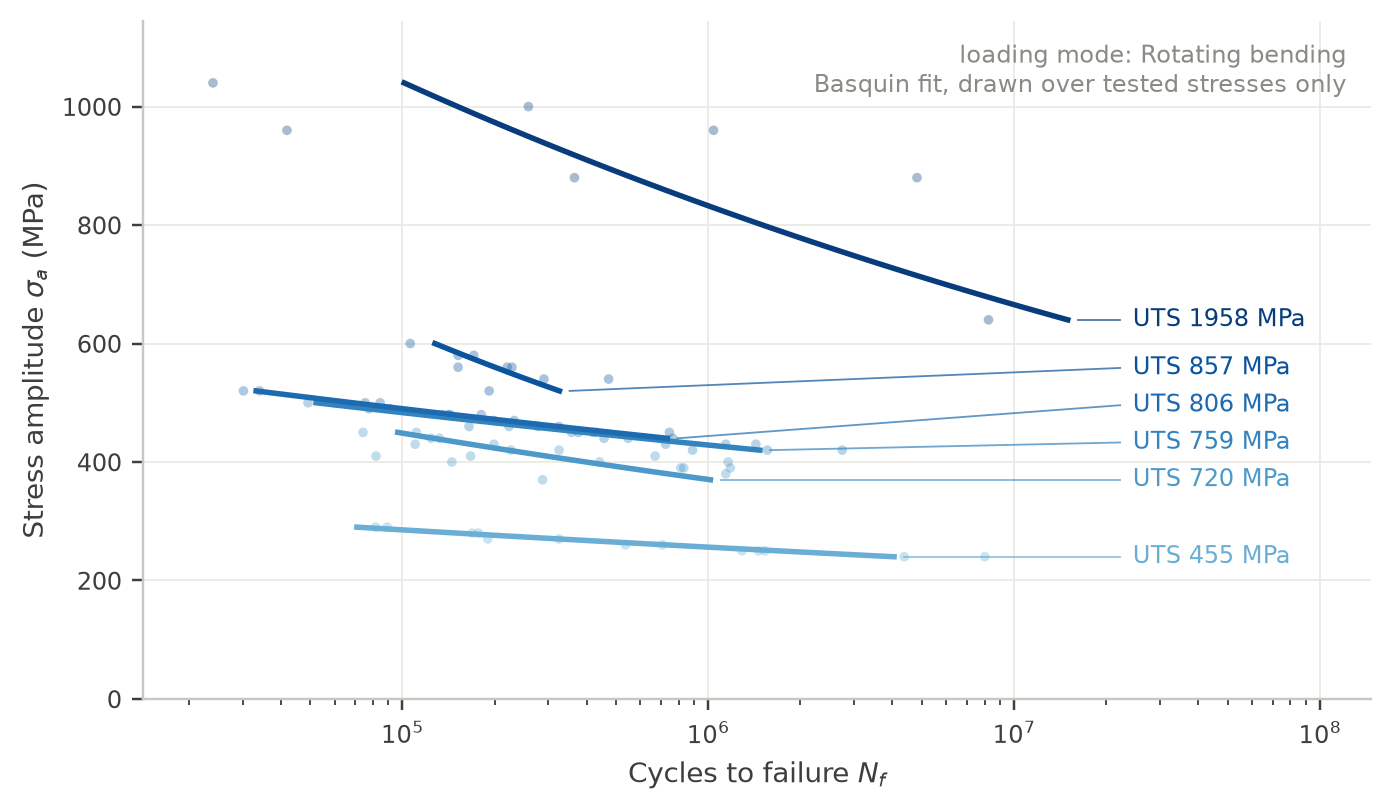
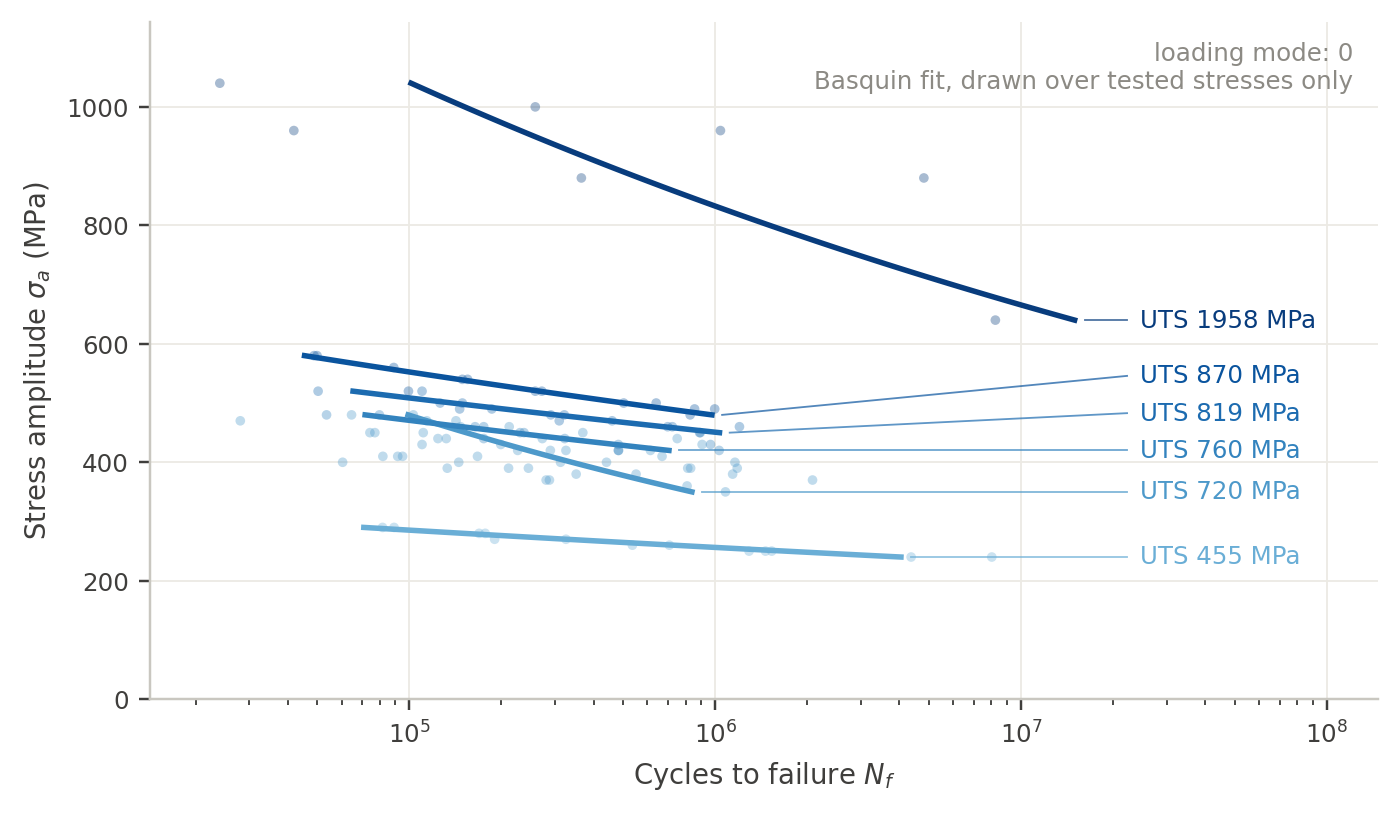
Notebook and random split

diff --git a/plot.py b/plot.py
@@ -3,7 +3,7 @@ import os
 import numpy as np
 import pandas as pd
 import matplotlib.pyplot as plt
-from matplotlib.ticker import FuncFormatter
+from matplotlib.ticker import FuncFormatter, LogLocator, NullFormatter
 
 from evaluate import load_clean, tune_all, feature_importance, basquin_baseline
 
@@ -78,6 +78,36 @@ def basquin_line(stress, log_nf):
     # Straight line representation of a material's stress-life 
     b, a = np.polyfit(np.log10(stress), log_nf, 1)
     return lambda s: a + b * np.log10(s)
+
+
+def fig0_target_distribution(df):
+    # Figure 0: Distribution of the target before and after the log transform
+    # Uses all cleaned tests, run-outs included, so the run-out limits are visible
+
+    failed = df[df["runout"] == 0]
+    fig, axes = plt.subplots(1, 2, figsize=(7.2, 2.8))
+
+    # Raw cycles of the failed tests, strongly right-skewed
+    axes[0].hist(10 ** failed["log10_Nf"] / 1e6, bins=40, color=BLUE, edgecolor="white", linewidth=0.4)
+    axes[0].set(xlabel="Cycles to failure $N_f$ (millions)", ylabel="Number of tests")
+    axes[0].set_title("Failed tests, raw scale", fontsize=9, loc="left")
+
+    # log10 scale, failed and run-outs stacked
+    bins = np.linspace(df["log10_Nf"].min(), df["log10_Nf"].max(), 50)
+    axes[1].hist([failed["log10_Nf"], df.loc[df["runout"] == 1, "log10_Nf"]], bins=bins, stacked=True,
+                 color=[BLUE, GREY], edgecolor="white", linewidth=0.4, label=["failed", "run-out"])
+    axes[1].axvline(7, color=RED, linewidth=1.0, linestyle="--")
+    axes[1].text(6.95, axes[1].get_ylim()[1] * 0.92, "$10^{7}$ limit", color=RED, fontsize=8, ha="right")
+    axes[1].set(xlabel=r"$\log_{10} N_f$")
+    axes[1].set_title("All tests, log scale", fontsize=9, loc="left")
+    axes[1].legend(frameon=False, loc="upper right", bbox_to_anchor=(1.0, 0.85))
+
+    for ax in axes:
+        ax.grid(axis="y", color="#eceae4", linewidth=0.6)
+        ax.set_axisbelow(True)
+    fig.tight_layout()
+    save(fig, "0_target_distribution")
+    return failed["log10_Nf"].pipe(lambda s: (s.skew(), (10 ** s).skew()))
 
 
 def fig1_predicted_vs_measured(y_test, preds, best_name):
@@ -184,41 +214,40 @@ def fig3_sn_curves(df, n_drawn=6):
     candidates.sort(key=lambda c: c[0])  # spread the picks over strength
     pick = np.unique(np.linspace(0, len(candidates) - 1, min(n_drawn, len(candidates))).round().astype(int))
     shown = [candidates[i] for i in pick]
-    colors = plt.cm.Blues(np.linspace(0.5, 0.95, len(shown)))
+    # Dark end of viridis only, the pale yellow-green is hard to see on white
+    colors = plt.cm.viridis(np.linspace(0.0, 0.72, len(shown)))
 
+    # Log-log axes, so each Basquin fit is a straight line as in equation (1)
     fig, ax = plt.subplots(figsize=(7.2, 4.0))
-    ends, rows = [], []
+    rows = []
     for (uts, fit), color in zip(shown, colors):
         line = basquin_line(fit["sigma_a"], fit["log10_Nf"])
-        s = np.linspace(fit["sigma_a"].min(), fit["sigma_a"].max(), 100)
+        s = np.geomspace(fit["sigma_a"].min(), fit["sigma_a"].max(), 100)
 
-        ax.scatter(10 ** fit["log10_Nf"], fit["sigma_a"], s=10, color=color, alpha=0.35,
-                   edgecolors="none", zorder=2)
-        ax.plot(10 ** line(s), s, color=color, linewidth=1.8, zorder=3)
+        ax.scatter(10 ** fit["log10_Nf"], fit["sigma_a"], s=16, color=color, alpha=0.8,
+                   edgecolors="white", linewidths=0.4, zorder=3)
+        ax.plot(10 ** line(s), s, color=color, linewidth=1.8, zorder=2, label=f"UTS {uts:.0f} MPa")
 
-        ends.append([10 ** line(s[0]), s[0], f"UTS {uts:.0f} MPa", color])
         b = 1 / np.polyfit(np.log10(fit["sigma_a"]), fit["log10_Nf"], 1)[0]
         rows.append({"UTS (MPa)": uts, "n": len(fit), "b": round(b, 3)})
 
-
-    lives = 10 ** in_mode["log10_Nf"]
-    top = in_mode["sigma_a"].max() * 1.1
-    gap = 0.055 * top
-    label_x = lives.max() * 2.5
-    ends.sort(key=lambda e: e[1])
-    label_y = [e[1] for e in ends]
-    for i in range(1, len(label_y)):
-        label_y[i] = max(label_y[i], label_y[i - 1] + gap)
-    for (x, y_end, text, color), y_label in zip(ends, label_y):
-        ax.plot([x * 1.08, label_x / 1.1], [y_end, y_label], color=color, linewidth=0.6, alpha=0.7)
-        ax.text(label_x, y_label, text, va="center", fontsize=8, color=color)
-
-    ax.set(xscale="log", xlim=(lives.min() / 1.5, label_x * 6), ylim=(0, top),
+    ax.set(xscale="log", yscale="log",
            xlabel="Cycles to failure $N_f$", ylabel=r"Stress amplitude $\sigma_a$ (MPa)")
     ax.xaxis.set_major_formatter(FuncFormatter(decade))
-    ax.text(0.98, 0.97, f"loading mode: {mode_name}\nBasquin fit, drawn over tested stresses only",
-            transform=ax.transAxes, ha="right", va="top", fontsize=8, color=GREY)
-    ax.grid(color="#eceae4", linewidth=0.6)
+    ax.yaxis.set_major_locator(LogLocator(base=10, subs=(1, 2, 2.5, 3, 4, 5, 6, 8)))
+    ax.yaxis.set_major_formatter(FuncFormatter(lambda v, _: f"{v:.0f}"))
+    ax.yaxis.set_minor_formatter(NullFormatter())
+
+    # Legend above the plot so it hides no data, strongest state first like the lines
+    handles, labels = ax.get_legend_handles_labels()
+    handles, labels = handles[::-1], labels[::-1]
+    # Matplotlib fills legend columns first, reorder so each row reads strongest to weakest
+    n_rows = int(np.ceil(len(handles) / 3))
+    order = [(p % n_rows) * 3 + p // n_rows for p in range(len(handles))]
+    ax.legend([handles[i] for i in order], [labels[i] for i in order],
+              loc="lower center", bbox_to_anchor=(0.5, 1.0),
+              ncol=3, frameon=False, fontsize=8.5, handlelength=2.2, columnspacing=1.8)
+    ax.grid(which="both", color="#eceae4", linewidth=0.5)
     ax.set_axisbelow(True)
     save(fig, "3_sn_curves")
 
@@ -251,6 +280,8 @@ def main():
 
     # Draw and save the three figures
     print("\nFigures")
+    all_tests = pd.concat([pd.read_csv("Data/train_with_runouts.csv"), pd.read_csv("Data/test_with_runouts.csv")])
+    fig0_target_distribution(all_tests)
     fig1_predicted_vs_measured(y_test, preds, best_name)
     kept = fig2_feature_importance(importance)
     within_state, drawn = fig3_sn_curves(train)

diff --git a/random_split.py b/random_split.py
@@ -1,0 +1,57 @@
+import numpy as np
+import pandas as pd
+from sklearn.ensemble import HistGradientBoostingRegressor
+from sklearn.model_selection import GroupShuffleSplit, ShuffleSplit
+
+from evaluate import load_clean, compute_metrics
+
+#---------------------------------------------------------------------------------
+# How much does a random split by row flatter the score?
+# Same model and settings as the final model in evaluate.py, same failed tests,
+# only the way the data is split changes.
+# Random split: tests from one material state can end up in both train and test.
+# Group split: every material state is on one side only, as in the main analysis.
+#---------------------------------------------------------------------------------
+
+N_SEEDS = 10
+TEST_SIZE = 0.2
+
+# Best settings for gradient boosting from the grid search in evaluate.py
+BEST = {"learning_rate": 0.1, "max_leaf_nodes": 15, "min_samples_leaf": 10}
+
+
+def all_failed_tests():
+    # Train and test from data_prep.py put back together (run-outs already removed)
+    X_tr, y_tr, g_tr, _ = load_clean("Data/train.csv")
+    X_te, y_te, g_te, _ = load_clean("Data/test.csv")
+    X = pd.concat([X_tr, X_te[X_tr.columns]], ignore_index=True)
+    y = pd.concat([y_tr, y_te], ignore_index=True)
+    groups = pd.concat([g_tr, g_te], ignore_index=True)
+    return X, y, groups
+
+
+def score_split(splitter, X, y, groups):
+    # Fit on the train part, score once on the test part, for every seed
+    rows = []
+    for seed in range(N_SEEDS):
+        splitter.random_state = seed
+        tr, te = next(splitter.split(X, y, groups))
+        model = HistGradientBoostingRegressor(random_state=0, **BEST).fit(X.iloc[tr], y.iloc[tr])
+        rows.append(compute_metrics(y.iloc[te], model.predict(X.iloc[te])))
+    return pd.DataFrame(rows)
+
+
+if __name__ == "__main__":
+    X, y, groups = all_failed_tests()
+    print(f"{len(X)} failed tests, {groups.nunique()} material states, {N_SEEDS} splits each\n")
+
+    results = {
+        "random split by row": score_split(ShuffleSplit(n_splits=1, test_size=TEST_SIZE), X, y, groups),
+        "split by material state": score_split(GroupShuffleSplit(n_splits=1, test_size=TEST_SIZE), X, y, groups),
+    }
+
+    summary = pd.DataFrame({
+        name: {f"{m}_{s}": getattr(res[m], s)() for m in ["rmse", "r2", "within_factor_2"] for s in ["mean", "std"]}
+        for name, res in results.items()
+    }).T
+    print(summary.round(3))
